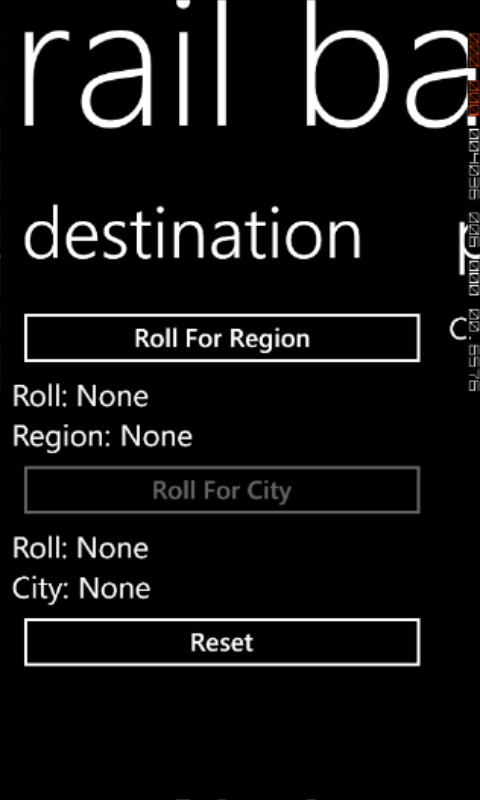
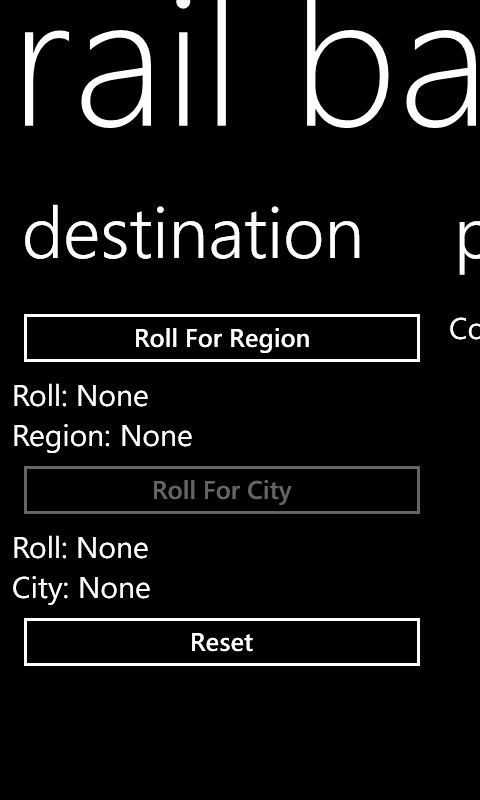
Disabled frame rate counters and retook screens.

diff --git a/Solution/App.xaml.cs b/Solution/App.xaml.cs
@@ -59,7 +59,7 @@ namespace RailBaron
             if (System.Diagnostics.Debugger.IsAttached)
             {
                 // Display the current frame rate counters.
-                Application.Current.Host.Settings.EnableFrameRateCounter = true;
+                Application.Current.Host.Settings.EnableFrameRateCounter = false;
 
                 // Show the areas of the app that are being redrawn in each frame.
                 //Application.Current.Host.Settings.EnableRedrawRegions = true;
